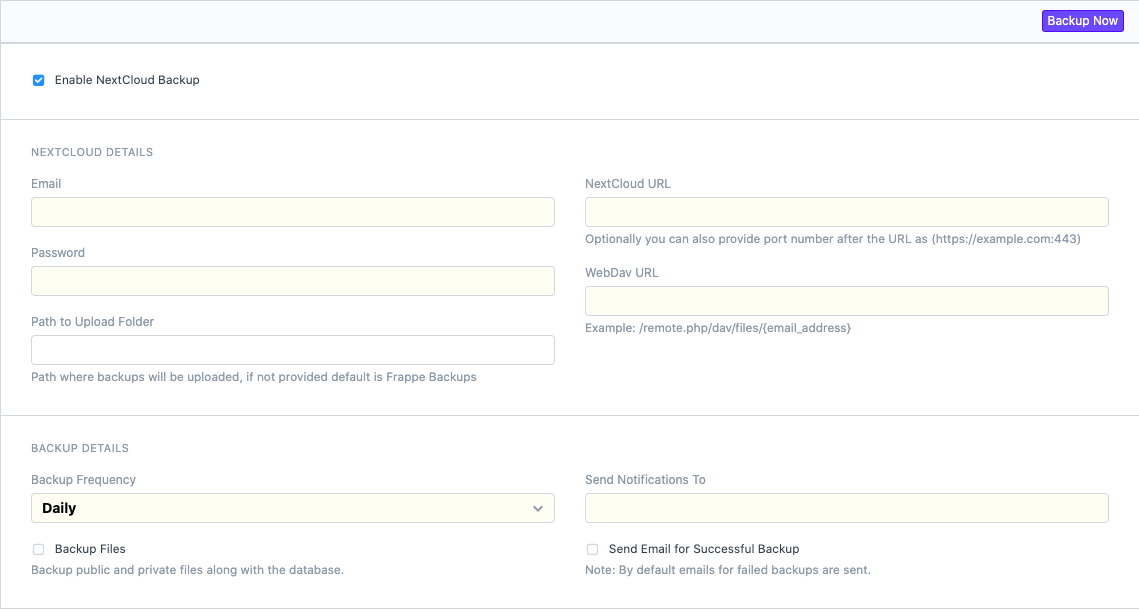
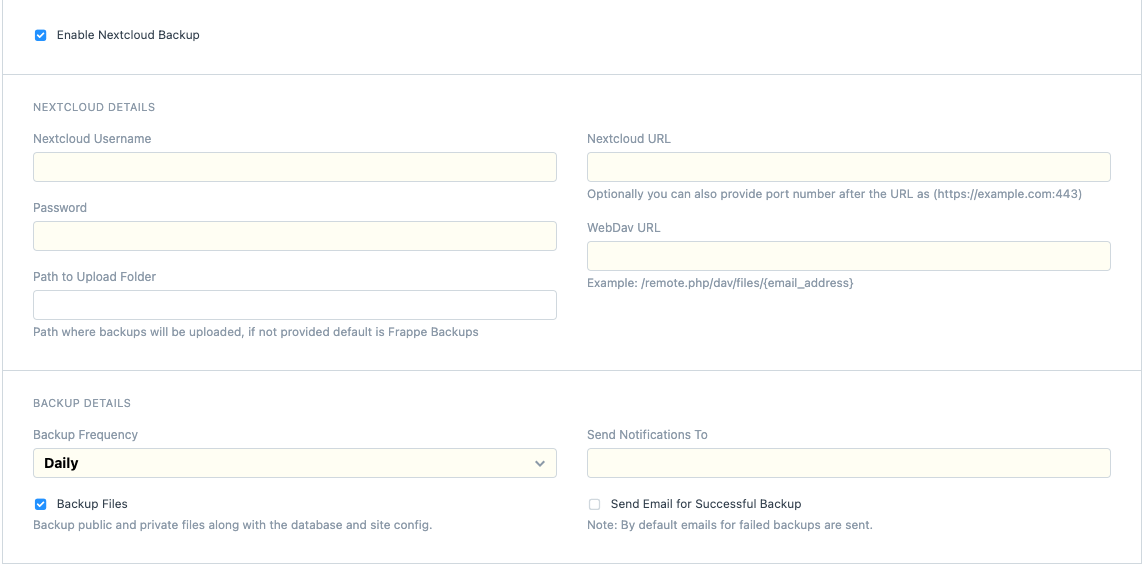
update: changed README and positioning of fields

diff --git a/nextcloud_integration/nextcloud_integration/doctype/nextcloud_setting/nextcloud_setting.js b/nextcloud_integration/nextcloud_integration/doctype/nextcloud_setting/nextcloud_setting.js
@@ -13,7 +13,7 @@ frappe.ui.form.on('Nextcloud Setting', {
 	},
 
 	add_backup_button: function(frm) {
-		if (frm.doc.enabled && frm.doc.email && frm.doc.password) {
+		if (frm.doc.enabled && frm.doc.nextcloud_username && frm.doc.password) {
 			frm.add_custom_button(__("Backup Now"), function() {
 				frappe.call({
 					method: "nextcloud_integration.nextcloud_integration.doctype.nextcloud_setting.nextcloud_setting.take_backup",
